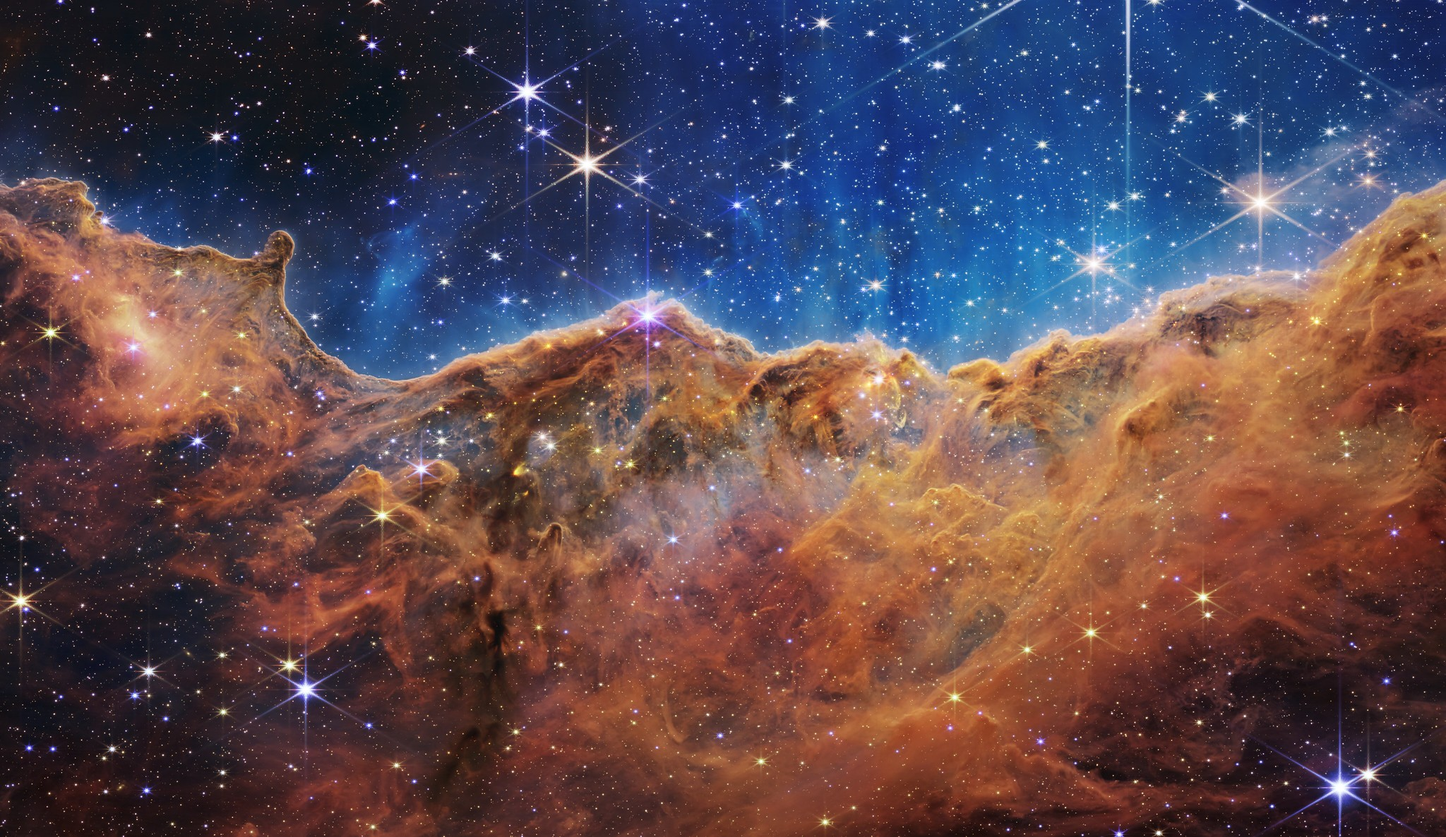
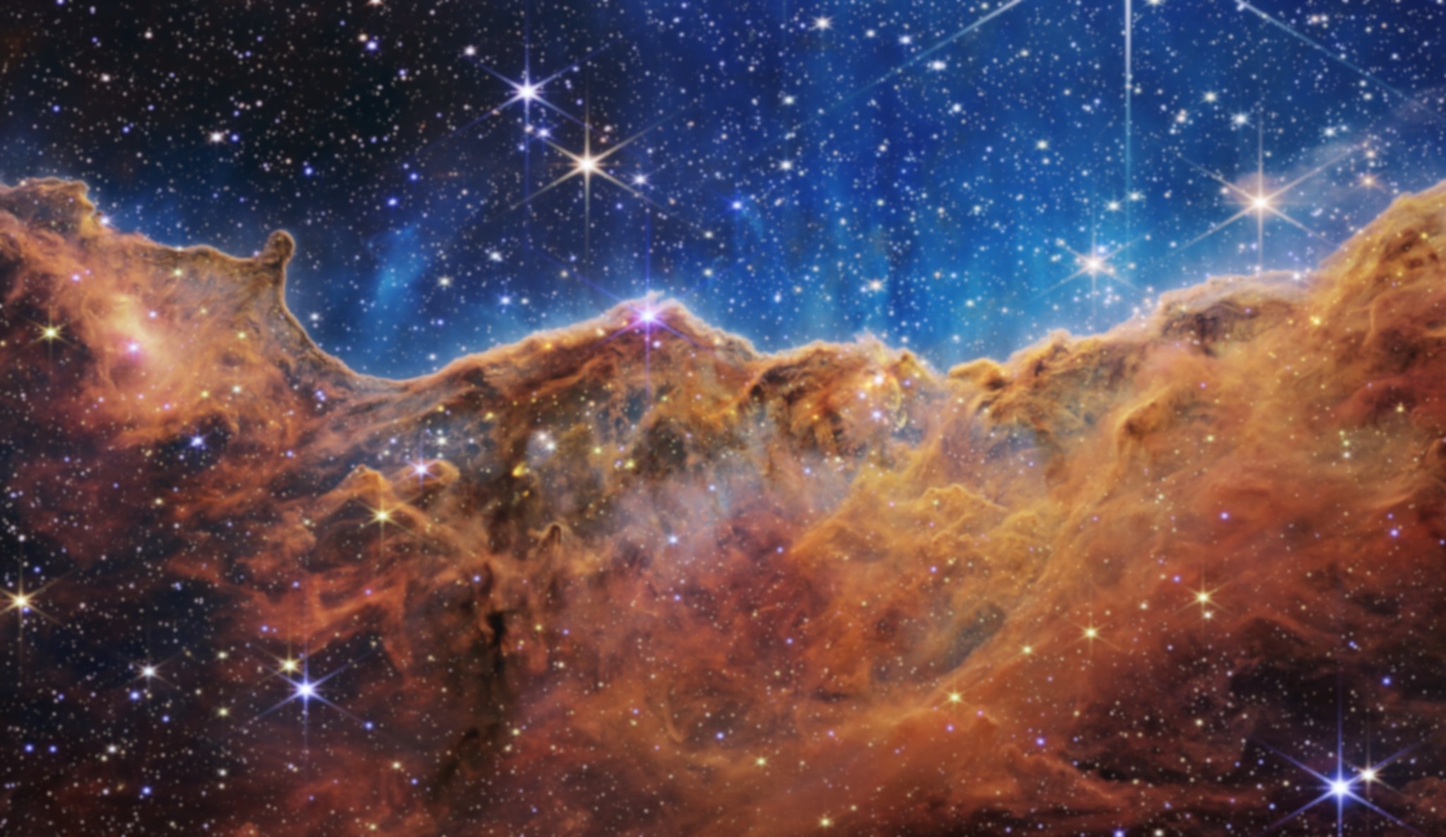
Improvements to backgrounds and styling

diff --git a/src/components/Nav.js b/src/components/Nav.js
@@ -2,17 +2,17 @@ import React from "react";
 
 export default function Nav({pages, setCurrentPage, currentPage}) {
   return (
-      <ul className="m-1 p-1 text-xl whitespace-nowrap">
-        <li onClick={() => setCurrentPage(pages[0])} className={currentPage==='aboutMe' ? 'font-bold': ''}>
+      <ul className="m-1 p-1 text-xl text-white whitespace-nowrap">
+        <li onClick={() => setCurrentPage(pages[0])} className={currentPage==='aboutMe' ? 'font-extrabold': ''}>
           About me
         </li>
-        <li onClick={() => setCurrentPage(pages[1]) } className={currentPage==='portfolio' ? 'font-bold': ''}>
+        <li onClick={() => setCurrentPage(pages[1]) } className={currentPage==='portfolio' ? 'font-extrabold': ''}>
           Portfolio
         </li>
-        <li onClick={() => setCurrentPage(pages[2])} className={currentPage==='contactMe' ? 'font-bold': ''}>
+        <li onClick={() => setCurrentPage(pages[2])} className={currentPage==='contactMe' ? 'font-extrabold': ''}>
           Contact me
         </li>
-        <li onClick={() => setCurrentPage(pages[3])} className={currentPage==='resume' ? 'font-bold': ''}>
+        <li onClick={() => setCurrentPage(pages[3])} className={currentPage==='resume' ? 'font-extrabold': ''}>
           Resume
         </li>
       </ul>

diff --git a/src/components/Header.js b/src/components/Header.js
@@ -12,8 +12,8 @@ export default function Header({darkMode, toggleDarkMode, pages, setCurrentPage,
 
 
   return (
-    <section className="px-4 py-2 flex bg-slate-600 justify-between items-center ring-8 ring-inset ring-red-600" id='header'>
-      <p className="p-2 text-3xl font-bold text-center">Gordon Magill</p>
+    <section className="px-4 py-2 flex bg-gradient-to-r from-slate-800 to-slate-800/50 justify-between items-center" id='header'>
+      <p className="p-2 text-3xl font-bold text-center text-white">Gordon Magill</p>
       <Nav pages={pages} setCurrentPage={setCurrentPage} currentPage={currentPage}/>
     </section>
   );

diff --git a/src/components/Portfolio.js b/src/components/Portfolio.js
@@ -88,7 +88,7 @@ export default function Portfolio() {
 
   return (
     <section className="flex justify-center" id="portfolioHighlights">
-      <div className="xs:flex xs:flex-col md:grid rounded m-2 p-2 bg-orange-400 md:grid-cols-2 md:gap-4 place-content-center justify-center items-center">
+      <div className="xs:flex xs:flex-col md:grid rounded m-2 p-2 bg-slate-800/80 md:grid-cols-2 md:gap-4 place-content-center justify-center items-center">
         {compsciProjects.map((project, index) => {
           // console.log(project);
           return <Project project={project} key={index} />;

diff --git a/src/App.js b/src/App.js
@@ -14,7 +14,7 @@ function App() {
   const [currentPage, setCurrentPage] = useState(pages[0]);
 
   return (
-    <div className='max-w-screen relative'>
+    <div className='bg-fixed bg-cover bg-top pageBackground max-w-screen relative'>
       <Header
         darkMode={darkMode}
         toggleDarkMode={toggleDarkMode}

diff --git a/src/components/Page.js b/src/components/Page.js
@@ -23,7 +23,7 @@ export default function Page({ currentPage }) {
   };
 
   return (
-  <div id="pageBody" className="bg-fixed bg-cover bg-center mb-10 pageBackground h-screen">
+  <div id="pageBody" className="bg-fixed bg-cover bg-top pageBackground min-h-fit h-screen">
     {pageSelector()}
   </div>);
 }

diff --git a/src/index.css b/src/index.css
@@ -11,6 +11,7 @@
     }
 
     .pageBackground {
-        background-image: url(./assets/jwst_background.jpg)
+        background-image: url(./assets/jwst_background.jpg);
+        /* filter: blur(5px); */
     }
 }
